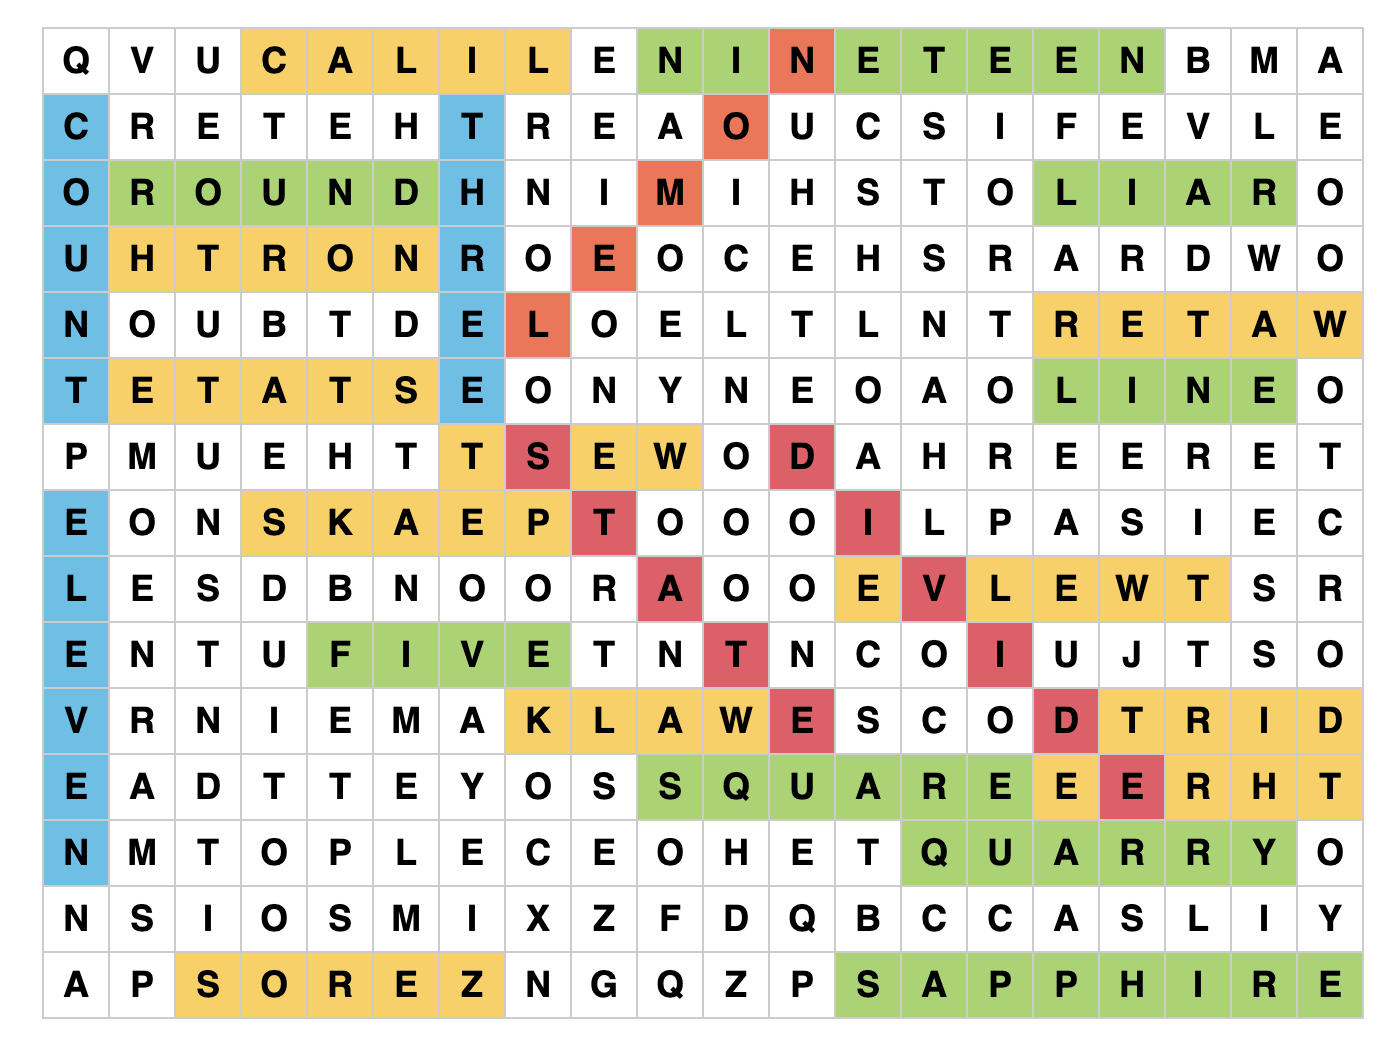
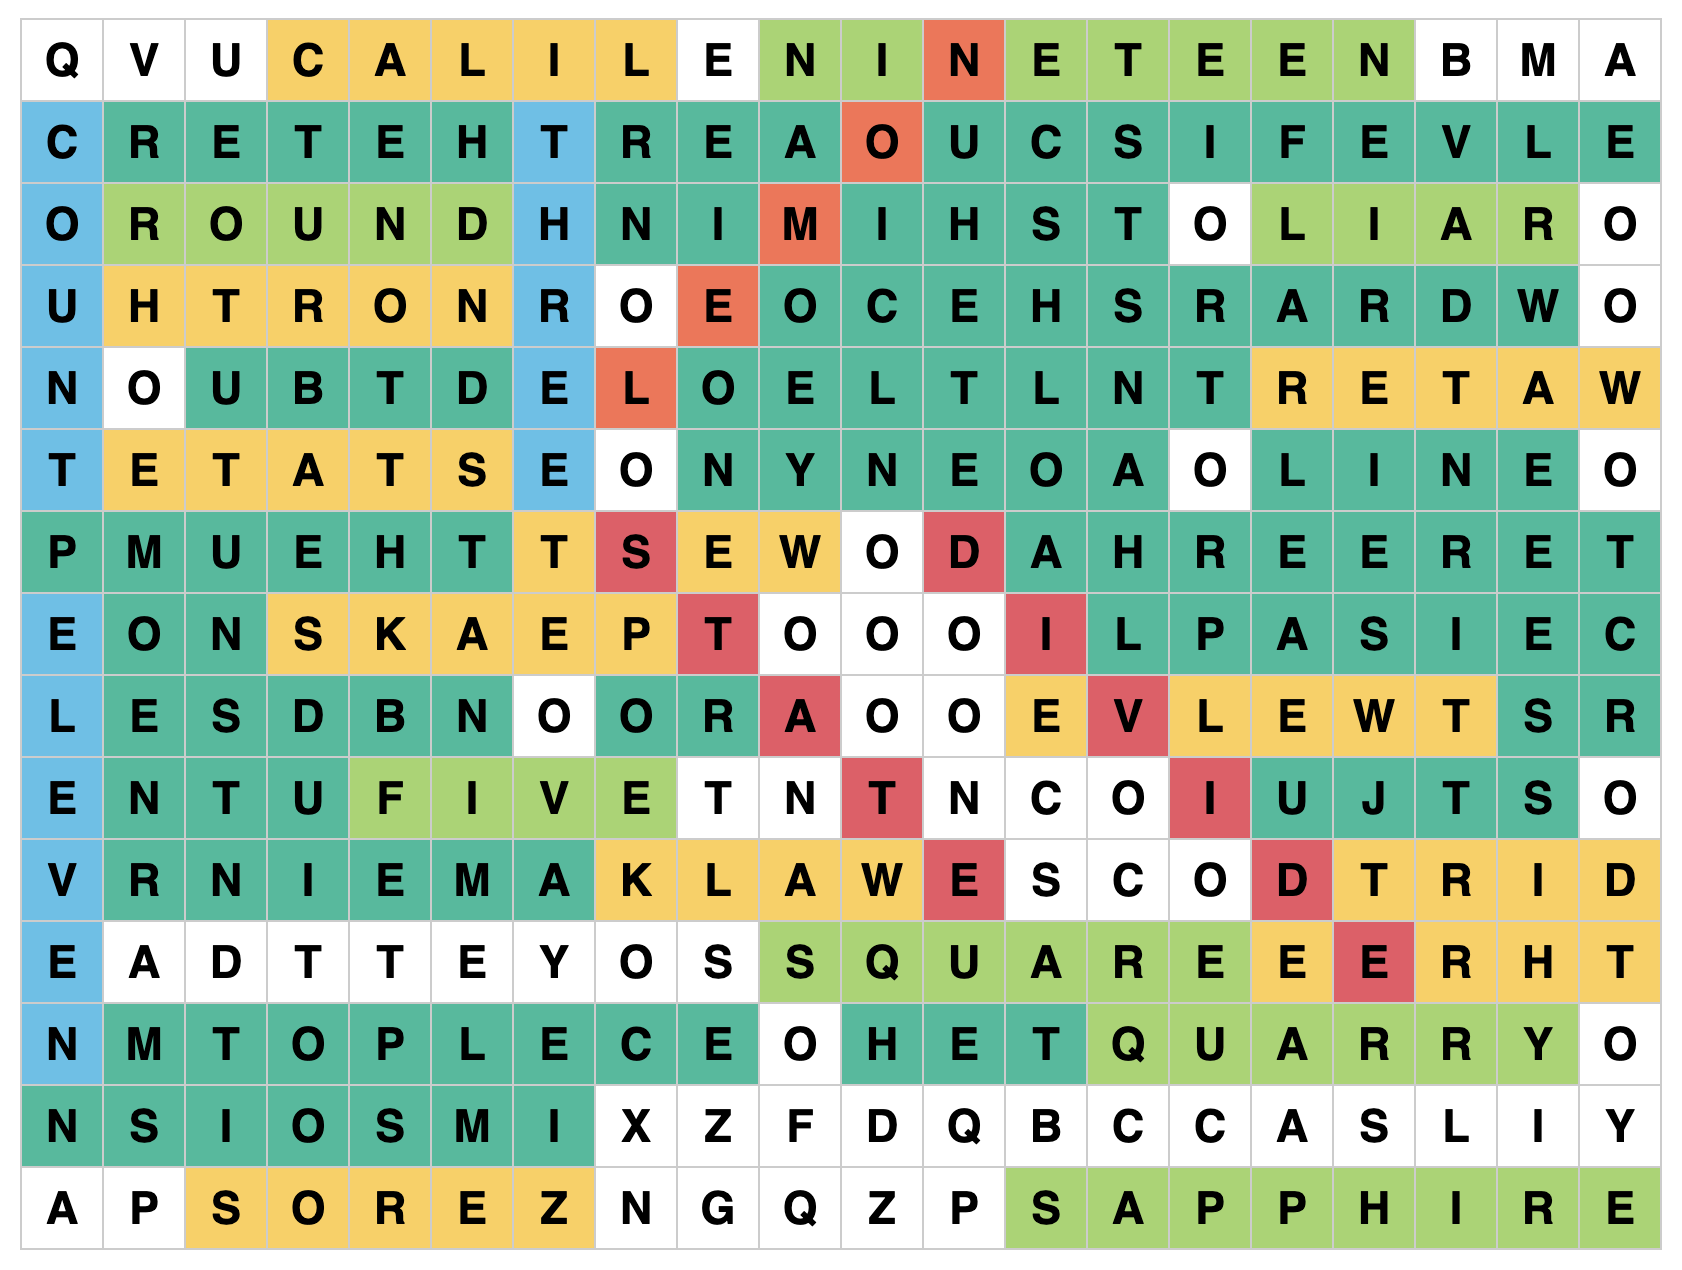
feat: anagram mode

diff --git a/puzzles/part-two/past-and-future/wordsearch.html b/puzzles/part-two/past-and-future/wordsearch.html
@@ -53,6 +53,7 @@
            BOTTOM-TO-TOP: Purple (#ac92ec)
            STANDARD DIAGONAL: Red (#ed5565)
            REVERSE DIAGONAL: Orange (#fc6e51)
+           ANAGRAM: Teal (#1abc9c)
         */
         .horiz {
             background: #a0d468; /* Green for left-to-right */
@@ -76,6 +77,10 @@
 
         .diag-rtl {
             background: #fc6e51; /* Orange for reverse diagonal */
+        }
+
+        .anagram {
+            background: #1abc9c; /* Teal for anagram highlights */
         }
 
         .temp {
@@ -141,6 +146,8 @@ A P S O R E Z N G Q Z P S A P P H I R E</textarea>
 <button id="clearBtn">Clear All</button>
 <button id="undoBtn">Undo</button>
 <button id="extractBtn">Extract Unhighlighted Text</button>
+<button id="anagramModeBtn">Anagram Mode: Off</button>
+<button id="clearAnagramBtn">Clear Anagrams</button>
 
 <div id="gridContainer" class="table-wrapper"></div>
 
@@ -226,6 +233,8 @@ A P S O R E Z N G Q Z P S A P P H I R E</textarea>
     /**************** State ****************/
     let grid = [], selections = []; // selections: {word,start:[r,c],dir:[dr,dc],path:[{rr,cc}]}
     let isMouseDown = false, startCell = null, tempPath = [];
+    let isAnagramMode = false; // Track whether anagram mode is active
+    let anagramCells = new Set(); // Store coordinates of cells marked as anagrams
     const gridContainer = document.getElementById('gridContainer');
     const tbody = document.querySelector('#resultsTable tbody');
 
@@ -299,6 +308,15 @@ A P S O R E Z N G Q Z P S A P P H I R E</textarea>
         const end = {r: +td.dataset.r, c: +td.dataset.c};
         const dr = Math.sign(end.r - startCell.r), dc = Math.sign(end.c - startCell.c);
         if (dr === 0 && dc === 0) {
+            // Allow single character selection in anagram mode
+            if (isAnagramMode) {
+                const path = [{rr: startCell.r, cc: startCell.c}];
+                markAnagram(path);
+                resetTemp();
+                isMouseDown = false;
+                updateURL();
+                return;
+            }
             resetTemp();
             isMouseDown = false;
             return;
@@ -321,7 +339,14 @@ A P S O R E Z N G Q Z P S A P P H I R E</textarea>
             }
         }
         const word = path.map(p => grid[p.rr][p.cc]).join('');
-        addSelection(word, startCell, dr, dc, path);
+
+        // If in anagram mode, mark cells as anagrams instead of adding to selections
+        if (isAnagramMode) {
+            markAnagram(path);
+        } else {
+            addSelection(word, startCell, dr, dc, path);
+        }
+
         resetTemp();
         isMouseDown = false;
         updateURL();
@@ -344,10 +369,23 @@ A P S O R E Z N G Q Z P S A P P H I R E</textarea>
         path.forEach(p => document.querySelector(`[data-r="${p.rr}"][data-c="${p.cc}"]`).classList.add(ori));
     }
 
+    function markAnagram(path) {
+        path.forEach(p => {
+            const cell = document.querySelector(`[data-r="${p.rr}"][data-c="${p.cc}"]`);
+            cell.classList.add('anagram');
+            anagramCells.add(`${p.rr},${p.cc}`);
+        });
+    }
+
     function clearAllHighlights() {
         document.querySelectorAll('.horiz, .horiz-rtl, .vert, .vert-rtl, .diag, .diag-rtl').forEach(
             el => el.classList.remove('horiz', 'horiz-rtl', 'vert', 'vert-rtl', 'diag', 'diag-rtl')
         );
+    }
+
+    function clearAnagramHighlights() {
+        document.querySelectorAll('.anagram').forEach(el => el.classList.remove('anagram'));
+        anagramCells.clear();
     }
 
     function redrawHighlights() {
@@ -374,6 +412,7 @@ A P S O R E Z N G Q Z P S A P P H I R E</textarea>
     function loadGrid() {
         grid = parseGrid(document.getElementById('gridInput').value);
         selections = [];
+        anagramCells.clear();
         tbody.innerHTML = '';
         buildGridTable();
         updateURL();
@@ -383,6 +422,7 @@ A P S O R E Z N G Q Z P S A P P H I R E</textarea>
         selections = [];
         tbody.innerHTML = '';
         redrawHighlights();
+        clearAnagramHighlights();
         updateURL();
     }
 
@@ -394,13 +434,28 @@ A P S O R E Z N G Q Z P S A P P H I R E</textarea>
         updateURL();
     }
 
+    function toggleAnagramMode() {
+        isAnagramMode = !isAnagramMode;
+        const btn = document.getElementById('anagramModeBtn');
+        btn.textContent = `Anagram Mode: ${isAnagramMode ? 'On' : 'Off'}`;
+        btn.style.backgroundColor = isAnagramMode ? '#1abc9c' : '';
+        btn.style.color = isAnagramMode ? 'white' : '';
+    }
+
     function extractUnhighlightedText() {
         // Create a set of all highlighted cell coordinates
         const highlightedCells = new Set();
+
+        // Add cells from word selections
         selections.forEach(sel => {
             sel.path.forEach(p => {
                 highlightedCells.add(`${p.rr},${p.cc}`);
             });
+        });
+
+        // Add cells marked as anagrams
+        anagramCells.forEach(coord => {
+            highlightedCells.add(coord);
         });
 
         // Extract text from unhighlighted cells
@@ -458,6 +513,8 @@ A P S O R E Z N G Q Z P S A P P H I R E</textarea>
         document.getElementById('clearBtn').addEventListener('click', clearEverything);
         document.getElementById('undoBtn').addEventListener('click', undo);
         document.getElementById('extractBtn').addEventListener('click', extractUnhighlightedText);
+        document.getElementById('anagramModeBtn').addEventListener('click', toggleAnagramMode);
+        document.getElementById('clearAnagramBtn').addEventListener('click', clearAnagramHighlights);
         restoreFromURL();
     });
 </script>
